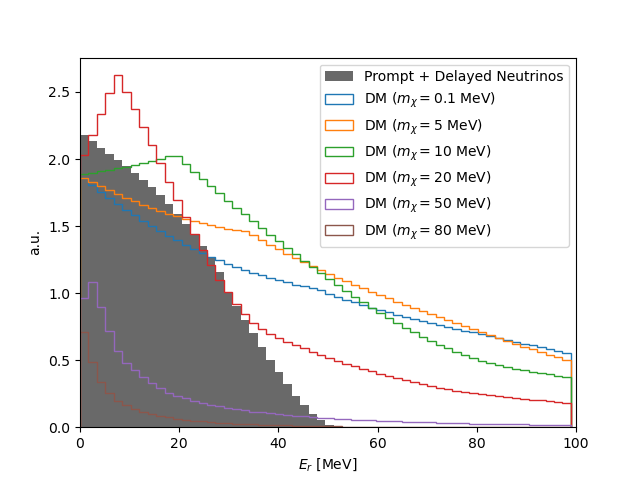
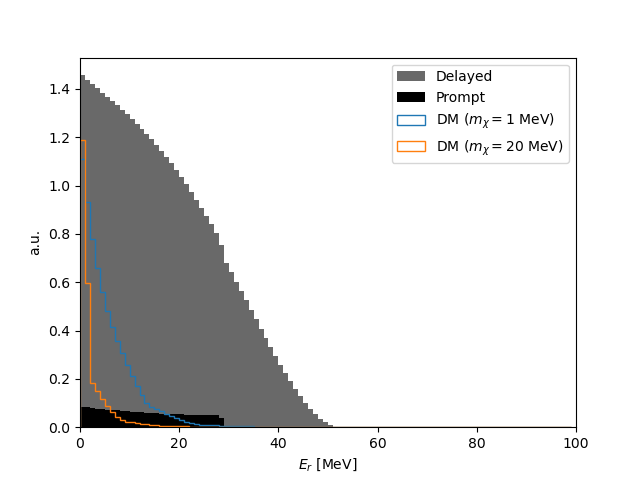
fixes to DMEventsGen, Pi0 flux, expand plotting scripts

diff --git a/pyCEvNS/flux.py b/pyCEvNS/flux.py
@@ -726,7 +726,7 @@ class DMFluxIsoPhoton(FluxBaseContinuous):
         self.dp_m = dark_photon_mass
         self.dm_m = dark_matter_mass
         self.epsilon = coupling
-        self.life_time = self.getLifeTime(coupling, dark_photon_mass)
+        self.life_time = self.get_lifetime(coupling, dark_photon_mass)
         if life_time is not None:
             self.life_time = life_time * 1e-6
         self.det_dist = detector_distance  # meters
@@ -758,7 +758,7 @@ class DMFluxIsoPhoton(FluxBaseContinuous):
         hist, bin_edges = np.histogram(self.energy, bins=nbins, weights=self.weight, density=True)
         super().__init__((bin_edges[:-1] + bin_edges[1:]) / 2, hist, norm=np.sum(self.weight))
 
-    def getLifeTime(self, g, m):
+    def get_lifetime(self, g, m):
         return ((16 * np.pi ** 2) / ((g ** 2) * m)) * mev_per_hz
 
 
@@ -895,7 +895,7 @@ class DMFluxFromPiMinusAbsorption:
     r"""
     Dark matter flux from pi^- + p -> A^\prime + n -> \chi + \chi + n
     """
-    def __init__(self, dark_photon_mass, life_time, coupling_quark, dark_matter_mass,
+    def __init__(self, dark_photon_mass, coupling_quark, dark_matter_mass, life_time=None,
                  detector_distance=19.3, pot_rate=5e20, pot_mu=0.7, pot_sigma=0.15, pion_rate=18324/500000, sampling_size=100000):
         """
         initialize and generate flux
@@ -916,7 +916,9 @@ class DMFluxFromPiMinusAbsorption:
         self.dm_m = dark_matter_mass
         self.epsi_quark = coupling_quark
         self.det_dist = detector_distance / meter_by_mev
-        self.dp_life = life_time * 1e-6 * c_light / meter_by_mev
+        self.dp_life = self.get_lifetime(coupling_quark, dark_photon_mass) * c_light / meter_by_mev
+        if life_time is not None:
+            self.dp_life = life_time * 1e-6 * c_light / meter_by_mev
         self.mu = pot_mu * 1e-6 * c_light / meter_by_mev
         self.sigma = pot_sigma * 1e-6 * c_light / meter_by_mev
         self.pot_rate = pot_rate
@@ -932,6 +934,9 @@ class DMFluxFromPiMinusAbsorption:
         self._generate()
         self.ev_min = self.ed_min
         self.ev_max = self.ed_max
+
+    def get_lifetime(self, g, m):
+        return ((16 * np.pi ** 2) / ((g ** 2) * m)) * mev_per_hz
 
     def _generate(self):
         """
@@ -1022,6 +1027,33 @@ class DMFluxFromPiMinusAbsorption:
         self.sampling_size = sampling_size if sampling_size is not None else self.sampling_size
         self._generate()
 
+    def fint(self, er, m):
+        if np.isscalar(m):
+            m = np.array([m])
+        emin = 0.5 * (np.sqrt((er**2*m+2*er*m**2+2*er*self.dm_m**2+4*m*self.dm_m**2)/m) + er)
+        res = np.zeros_like(emin)
+        for i in range(emin.shape[0]):
+            res[i] = self.integrate(emin[i], self.ev_max, weight_function=self.f0)
+        return res
+
+    def fint1(self, er, m):
+        if np.isscalar(m):
+            m = np.array([m])
+        emin = 0.5 * (np.sqrt((er**2*m+2*er*m**2+2*er*self.dm_m**2+4*m*self.dm_m**2)/m) + er)
+        res = np.zeros_like(emin)
+        for i in range(emin.shape[0]):
+            res[i] = self.integrate(emin[i], self.ev_max, weight_function=self.f1)
+        return res
+
+    def fint2(self, er, m):
+        if np.isscalar(m):
+            m = np.array([m])
+        emin = 0.5 * (np.sqrt((er**2*m+2*er*m**2+2*er*self.dm_m**2+4*m*self.dm_m**2)/m) + er)
+        res = np.zeros_like(emin)
+        for i in range(emin.shape[0]):
+            res[i] = self.integrate(emin[i], self.ev_max, weight_function=self.f2)
+        return res
+
     def f0(self, ev):
         return 1/(ev**2 - self.dm_m**2)
 
@@ -1054,6 +1086,7 @@ class DMFluxFromPi0Decay(FluxBaseContinuous):
         self.time = []
         self.energy = []
         self.dm_mass = dark_matter_mass
+        print(pi0_distribution.shape)
         for pi0_events in pi0_distribution:  # must be in the form [azimuth, cos(zenith), kinetic energy]
             self._simulate_dm_events(pi0_events)
         self.timing = np.array(self.time)*1e6
@@ -1097,15 +1130,15 @@ class DMFluxFromPi0Decay(FluxBaseContinuous):
         # dark matter arrives at detector, assuming azimuthal symmetric
         v = dm_momentum[1:]/dm_momentum[0]*c_light
         a = np.sum(v**2)
-        b = 2*np.sum(v)
+        b = 2 * v[2] * (c_light * dp_p / dp_e) * t_dp #2*np.sum(v)
         c = np.sum(pos**2) - self.det_dist**2
         if b**2 - 4*a*c >= 0:
             t_dm = (-b+np.sqrt(b**2-4*a*c))/(2*a)
-            if t_dm >= 0 and self.det_direc-self.det_width/2 <= (pos[2]+v[2]*t_dm)/np.sqrt(np.sum((v*t_dm + pos)**2)) <= self.det_direc+self.det_width/2:
+            if t_dm >= 0: #and self.det_direc-self.det_width/2 <= (pos[2]+v[2]*t_dm)/np.sqrt(np.sum((v*t_dm + pos)**2)) <= self.det_direc+self.det_width/2:
                 self.time.append(t+t_dm)
                 self.energy.append(dm_momentum[0])
             t_dm = (-b-np.sqrt(b**2-4*a*c))/(2*a)
-            if t_dm >= 0 and self.det_direc-self.det_width/2 <= (pos[2]+v[2]*t_dm)/np.sqrt(np.sum((v*t_dm + pos)**2)) <= self.det_direc+self.det_width/2:
+            if t_dm >= 0: #and self.det_direc-self.det_width/2 <= (pos[2]+v[2]*t_dm)/np.sqrt(np.sum((v*t_dm + pos)**2)) <= self.det_direc+self.det_width/2:
                 self.time.append(t+t_dm)
                 self.energy.append(dm_momentum[0])
         v = (dp_momentum-dm_momentum)[1:]/(dp_momentum-dm_momentum)[0]*c_light
@@ -1114,11 +1147,11 @@ class DMFluxFromPi0Decay(FluxBaseContinuous):
         c = np.sum(pos**2) - self.det_dist**2
         if b**2 - 4*a*c >= 0:
             t_dm = (-b+np.sqrt(b**2-4*a*c))/(2*a)
-            if t_dm >= 0 and self.det_direc-self.det_width/2 <= (pos[2]+v[2]*t_dm)/np.sqrt(np.sum((v*t_dm + pos)**2)) <= self.det_direc+self.det_width/2:
+            if t_dm >= 0: #and self.det_direc-self.det_width/2 <= (pos[2]+v[2]*t_dm)/np.sqrt(np.sum((v*t_dm + pos)**2)) <= self.det_direc+self.det_width/2:
                 self.time.append(t+t_dm)
                 self.energy.append((dp_momentum-dm_momentum)[0])
             t_dm = (-b-np.sqrt(b**2-4*a*c))/(2*a)
-            if t_dm >= 0 and self.det_direc-self.det_width/2 <= (pos[2]+v[2]*t_dm)/np.sqrt(np.sum((v*t_dm + pos)**2)) <= self.det_direc+self.det_width/2:
+            if t_dm >= 0: #and self.det_direc-self.det_width/2 <= (pos[2]+v[2]*t_dm)/np.sqrt(np.sum((v*t_dm + pos)**2)) <= self.det_direc+self.det_width/2:
                 self.time.append(t+t_dm)
                 self.energy.append((dp_momentum-dm_momentum)[0])
 
@@ -1126,6 +1159,8 @@ class DMFluxFromPi0Decay(FluxBaseContinuous):
         return pd.DataFrame({'time': self.time, 'energy': self.energy})
 
     def fint(self, er, m):
+        if np.isscalar(m):
+            m = np.array([m])
         emin = 0.5 * (np.sqrt((er**2*m+2*er*m**2+2*er*self.dm_m**2+4*m*self.dm_m**2)/m) + er)
         res = np.zeros_like(emin)
         for i in range(emin.shape[0]):
@@ -1133,6 +1168,8 @@ class DMFluxFromPi0Decay(FluxBaseContinuous):
         return res
 
     def fint1(self, er, m):
+        if np.isscalar(m):
+            m = np.array([m])
         emin = 0.5 * (np.sqrt((er**2*m+2*er*m**2+2*er*self.dm_m**2+4*m*self.dm_m**2)/m) + er)
         res = np.zeros_like(emin)
         for i in range(emin.shape[0]):
@@ -1140,6 +1177,8 @@ class DMFluxFromPi0Decay(FluxBaseContinuous):
         return res
 
     def fint2(self, er, m):
+        if np.isscalar(m):
+            m = np.array([m])
         emin = 0.5 * (np.sqrt((er**2*m+2*er*m**2+2*er*self.dm_m**2+4*m*self.dm_m**2)/m) + er)
         res = np.zeros_like(emin)
         for i in range(emin.shape[0]):

diff --git a/jsns2NeutrinoSpectrum.py b/jsns2NeutrinoSpectrum.py
@@ -14,8 +14,12 @@ delayed_pdf = np.genfromtxt('data/jsns/mu_neutrino_timing.txt', delimiter=',')
 
 # CONSTANTS
 # TODO: update pe_per_mev for JSNS2
-pe_per_mev = 0.0878 * 13.348 * 1000
-exposure = 3 * 365 * 1000  #4466
+pe_per_mev = 10000
+exposure = 3 * 365 * 17000  #4466
+pim_rate_coherent = 0.0457
+pim_rate_jsns = 0.4962
+pim_rate_ccm = 0.0259
+pim_rate = pim_rate_jsns
 
 
 # TODO: update prompt and delayed pdfs.
@@ -45,10 +49,7 @@ def efficiency(pe):
 
 
 def get_energy_bins(e_a, e_b):
-  return np.arange(e_a, e_b, step=2000 / pe_per_mev)
-
-
-
+  return np.arange(e_a, e_b, step=10000 / pe_per_mev)
 
 
 
@@ -82,21 +83,26 @@ energies = n_meas[:, 0] / pe_per_mev
 
 # Plot JSNS^2 Dark Matter Signal
 def GetDMEvents(m_chi, m_dp, m_med, g):
-    photon_flux = np.genfromtxt("data/jsns_3gev_photon_totals_1e5_POT.txt")  # binned photon spectrum from
-    dm_gen = DmEventsGen(dark_photon_mass=m_dp, dark_matter_mass=m_chi, life_time=1, expo=exposure, detector_type='ar')
-    dm_flux = DMFluxIsoPhoton(photon_flux, dark_photon_mass=m_dp, coupling=g, dark_matter_mass=m_chi,
+    brem_flux = np.genfromtxt("data/jsns/brem.txt")  # binned photon spectrum from
+    dm_gen = DmEventsGen(dark_photon_mass=m_dp, dark_matter_mass=m_chi, life_time=1, expo=exposure, detector_type='jsns_scintillator')
+    brem_flux = DMFluxIsoPhoton(brem_flux, dark_photon_mass=m_dp, coupling=g, dark_matter_mass=m_chi,
                               detector_distance=24, pot_mu=0.145, pot_sigma=0.1, pot_sample=1e5,
-                              sampling_size=2000, verbose=False)
-    dm_gen.fx = dm_flux
-    return dm_gen.events(m_med, g, n_meas, channel="electron")
+                              sampling_size=1000, verbose=False)
+    pim_flux = DMFluxFromPiMinusAbsorption(dark_photon_mass=m_dp, coupling_quark=g, dark_matter_mass=m_chi, pion_rate=pim_rate,
+                                           pot_mu=0.145, pot_sigma=0.1)
+    dm_gen.fx = brem_flux
+    brem_events = dm_gen.events(m_med, g, n_meas, channel="electron")
+
+    dm_gen.fx = pim_flux
+    pim_events = dm_gen.events(m_med, g, n_meas, channel="electron")
+
+    return brem_events + pim_events
 
 
-dm_events = GetDMEvents(m_chi=0.1, m_dp=75, m_med=25, g=1e-4)
-dm_events2 = GetDMEvents(m_chi=5, m_dp=75, m_med=25, g=1e-4)
-dm_events3 = GetDMEvents(m_chi=10, m_dp=75, m_med=25, g=1e-4)
-dm_events4 = GetDMEvents(m_chi=20, m_dp=75, m_med=25, g=1e-4)
-dm_events5 = GetDMEvents(m_chi=50, m_dp=150, m_med=25, g=1e-4)
-dm_events6 = GetDMEvents(m_chi=80, m_dp=200, m_med=25, g=1e-4)
+dm_events1 = GetDMEvents(m_chi=1, m_dp=75, m_med=25, g=5e-4)
+dm_events2 = GetDMEvents(m_chi=20, m_dp=120, m_med=25, g=5e-4)
+
+
 
 
 
@@ -104,7 +110,7 @@ dm_events6 = GetDMEvents(m_chi=80, m_dp=200, m_med=25, g=1e-4)
 flux_factory = NeutrinoFluxFactory()
 prompt_flux = flux_factory.get('coherent_prompt')
 delayed_flux = flux_factory.get('coherent_delayed')
-det = Detector("ar")
+det = Detector("jsns_scintillator")
 nsi = NSIparameters(0)
 gen = NeutrinoElectronElasticVector(nsi)
 flat_index = 0
@@ -152,26 +158,21 @@ plt.clf()
 
 
 # Plot Dark Matter against Neutrino Spectrum
-plt.hist(n_meas[:,0]/pe_per_mev, weights=n_nu, bins=energy_edges,
-         histtype='stepfilled', color='dimgray', label="Prompt + Delayed Neutrinos")
-plt.hist(energies,weights=dm_events,bins=energy_edges,
-         histtype='step',label=r"DM ($m_{\chi} = 0.1$ MeV)")
+density = False
+plt.hist([n_meas[:,0]/pe_per_mev,n_meas[:,0]/pe_per_mev], weights=[n_prompt, n_delayed], bins=energy_edges,
+         stacked=True, histtype='stepfilled', density=density, color=['black','dimgray'], label=["Prompt", "Delayed"])
+plt.hist(energies,weights=dm_events1,bins=energy_edges,
+         histtype='step', density=density, label=r"DM ($m_{\chi} = 1$ MeV)")
 plt.hist(energies,weights=dm_events2,bins=energy_edges,
-         histtype='step',label=r"DM ($m_{\chi} = 5$ MeV)")
-plt.hist(energies,weights=dm_events3,bins=energy_edges,
-         histtype='step',label=r"DM ($m_{\chi} = 10$ MeV)")
-plt.hist(energies,weights=dm_events4,bins=energy_edges,
-         histtype='step',label=r"DM ($m_{\chi} = 20$ MeV)")
-plt.hist(energies,weights=dm_events5,bins=energy_edges,
-         histtype='step',label=r"DM ($m_{\chi} = 50$ MeV)")
-plt.hist(energies,weights=dm_events6,bins=energy_edges,
-         histtype='step',label=r"DM ($m_{\chi} = 80$ MeV)")
+         histtype='step', density=density, label=r"DM ($m_{\chi} = 20$ MeV)")
 plt.xlabel(r"$E_r$ [MeV]")
 #plt.yscale("log")
 plt.ylabel(r"a.u.")
 plt.xlim((0,100))
 plt.legend()
 plt.savefig("plots/jsns2/neutrino_dm_spectra.png")
+print(np.sum(n_nu), np.sum(dm_events1), np.sum(dm_events2))
+plt.show()
 
 
 

diff --git a/plotDMTiming.py b/plotDMTiming.py
@@ -26,26 +26,28 @@ pion_cos = np.cos(np.pi/180 * Pi0Info[:,0])
 pion_flux = np.array([pion_azimuth, pion_cos, pion_energy])
 pion_flux = pion_flux.transpose()
 
-light_mass = 50
+light_mass = 75
 heavy_mass = 138
 nsamples = 5000
 
+print("running short...")
 dm_pi0_short = DMFluxFromPi0Decay(pi0_distribution=pion_flux, dark_photon_mass=light_mass, life_time=0.001, coupling_quark=g, dark_matter_mass=m_chi)
 dm_brem_short = DMFluxIsoPhoton(photon_flux, dark_photon_mass=light_mass, coupling=g, dark_matter_mass=m_chi, life_time=0.001, sampling_size=nsamples)
 dm_pim_short = DMFluxFromPiMinusAbsorption(dark_photon_mass=light_mass, life_time=0.001, coupling_quark=g, dark_matter_mass=m_chi,
                                            pion_rate=pim_rate)
 
+print("running long...")
 dm_pi0_long = DMFluxFromPi0Decay(pi0_distribution=pion_flux, dark_photon_mass=light_mass, life_time=1, coupling_quark=g, dark_matter_mass=m_chi)
 dm_brem_long = DMFluxIsoPhoton(photon_flux, dark_photon_mass=light_mass, coupling=g, dark_matter_mass=m_chi, life_time=1, sampling_size=nsamples)
 dm_pim_long = DMFluxFromPiMinusAbsorption(dark_photon_mass=light_mass, life_time=1, coupling_quark=g, dark_matter_mass=m_chi,
                                           pion_rate=pim_rate)
 
+print("running HEAVY... UwU")
 dm_brem_heavy = DMFluxIsoPhoton(photon_flux, dark_photon_mass=heavy_mass, coupling=g, dark_matter_mass=m_chi, life_time=1, sampling_size=nsamples)
 dm_pim_heavy = DMFluxFromPiMinusAbsorption(dark_photon_mass=heavy_mass, life_time=1, coupling_quark=g, dark_matter_mass=m_chi,
                                            pion_rate=pim_rate)
 
 
-print(np.sum(dm_brem_heavy.weight), np.sum(dm_brem_short.weight), np.sum(dm_brem_long.weight))
 
 # Weights
 pim_short_norm = dm_pim_short.norm*np.ones(dm_pim_short.timing.shape[0]) / dm_pim_short.timing.shape[0]
@@ -54,6 +56,9 @@ pim_heavy_norm = dm_pim_heavy.norm*np.ones(dm_pim_heavy.timing.shape[0]) / dm_pi
 
 pi0_short_norm = dm_pi0_short.norm*np.ones(dm_pi0_short.timing.shape[0]) / dm_pi0_short.timing.shape[0]
 pi0_long_norm = dm_pi0_long.norm*np.ones(dm_pi0_long.timing.shape[0]) / dm_pi0_long.timing.shape[0]
+
+print(np.sum(pim_long_norm),dm_brem_long.norm, np.sum(pi0_long_norm))
+print(pim_long_norm.shape,len(dm_brem_long.weight), pi0_long_norm.shape)
 
 
 # Add in the pi- events.
@@ -70,10 +75,13 @@ weights_heavy = np.append(dm_brem_heavy.weight, pim_heavy_norm)
 # Plot timing spectra.
 time_bins = np.linspace(0,3,90)
 density = True
+#plt.hist(dm_brem_long.timing, weights=dm_brem_long.weight, bins=time_bins, histtype='step', density=density, color='k')
+#plt.hist(dm_pim_long.timing, weights=pim_long_norm, bins=time_bins, ls='--', histtype='step', density=density, color='k')
+#plt.hist(dm_pi0_long.timing, weights=pi0_long_norm, bins=time_bins, ls='dotted', histtype='step', density=density, color='k')
 plt.hist(times_short, weights=weights_short, bins=time_bins,
- histtype='step', density=density, color='red', label=r"$M_{A^\prime} = 50$ MeV, $\tau \leq 0.001$ $\mu$s")
+ histtype='step', density=density, color='red', label=r"$M_{A^\prime} = 75$ MeV, $\tau \leq 0.001$ $\mu$s")
 plt.hist(times_long, weights=weights_long, bins=time_bins,
- density=density, histtype='step', color='green', label=r"$M_{A^\prime} = 50$ MeV, $\tau = 1$ $\mu$s")
+ density=density, histtype='step', color='green', label=r"$M_{A^\prime} = 75$ MeV, $\tau = 1$ $\mu$s")
 plt.hist(times_heavy, weights=weights_heavy, bins=time_bins,
  density=density, histtype='step', color='blue', label=r"$M_{A^\prime} = 138$ MeV, $\tau = 1$ $\mu$s")
 plt.xlim((0,3))

diff --git a/bin_flux.py b/bin_flux.py
@@ -1,26 +1,35 @@
 import numpy as np
 import matplotlib.pyplot as plt
 
-flux = np.genfromtxt("flux.txt")
-nbins = 42
-edges = np.power(10, np.linspace(0.217, 2.7, nbins+1))
-hist, edges = np.histogram(flux, bins=edges)
+import sys
 
-centers = np.zeros(nbins)
-for i in range(0, nbins):
-  centers[i] = edges[i] + (edges[i+1] - edges[i]) / 2
+def main():
+  flux = np.genfromtxt(".\data\jsns\Hg_3GeV\gamma_process\Gamma_eBrem.txt")  # expect (angle, px, py, pz, E)
+  nbins=100
+  edges = np.linspace(min(flux[:,4]), max(flux[:,4]), nbins+1)
+  hist, edges = np.histogram(flux[:,4], bins=edges)
+
+  centers = np.zeros(nbins)
+  for i in range(0, nbins):
+    centers[i] = edges[i] + (edges[i+1] - edges[i]) / 2
 
 
-plt.plot(centers, hist, drawstyle='steps-mid')
-plt.yscale('log')
-plt.xlabel("Energy [keV]")
-plt.ylabel("Counts")
-plt.savefig("flux.png")
+  plt.plot(centers, hist, drawstyle='steps-mid')
+  plt.yscale('log')
+  plt.xlabel("Energy [MeV]")
+  plt.ylabel("Counts")
+  plt.xlim((0,max(flux[:,4])))
+ 
 
-# Save the histogram of fluxes.
-x = np.array([centers,hist])
-x = x.transpose()
-print(x.shape)
-np.savetxt("photon_flux_COHERENT_log_binned.txt", x)
+  # Save the histogram of fluxes.
+  x = np.array([centers,hist])
+  x = x.transpose()
+  print(x.shape)
+  np.savetxt("brem.txt", x)
 
+  plt.show()
+
+
+if __name__ == "__main__":
+  main()
 

diff --git a/pyCEvNS/events.py b/pyCEvNS/events.py
@@ -262,8 +262,10 @@ def rates_dm_electron(er, det: Detector, fx: DMFlux, mediator_mass=None,
         epsilon = fx.epsi_quark
 
     def rates(err):
-        prefactor = e_charge**4 * det.z * epsilon**2 / (4*np.pi * (2*me*err+mediator_mass**2)**2)
-        res = prefactor * np.dot(det.frac, (2*me*fx.fint2(err, me)
+        if err < det.er_min:
+            return 0
+        prefactor = e_charge**4 * epsilon**2 / (4*np.pi * (2*me*err+mediator_mass**2)**2)
+        res = prefactor * np.dot(det.frac, det.z * (2*me*fx.fint2(err, me)
                                             - 2*me*err*fx.fint1(err, me)
                                             - err*(me**2-fx.dm_m**2)*fx.fint(err, me)
                                             + err**2*me*fx.fint(err, me)))
@@ -298,6 +300,8 @@ def rates_dm(er, det: Detector, fx: DMFlux, mediator_mass=None, epsilon=None, ef
         epsilon = fx.epsi_quark
 
     def rates(err):
+        if err < det.er_min:
+            return 0
         res = np.dot(det.frac, e_charge**4 * epsilon**2 * det.z**2 *
                       (2*det.m*fx.fint2(err, det.m) -
                        (err)*2*det.m*fx.fint1(err, det.m) -(det.m**2*err-fx.dm_m**2*err)*fx.fint(err, det.m) +
